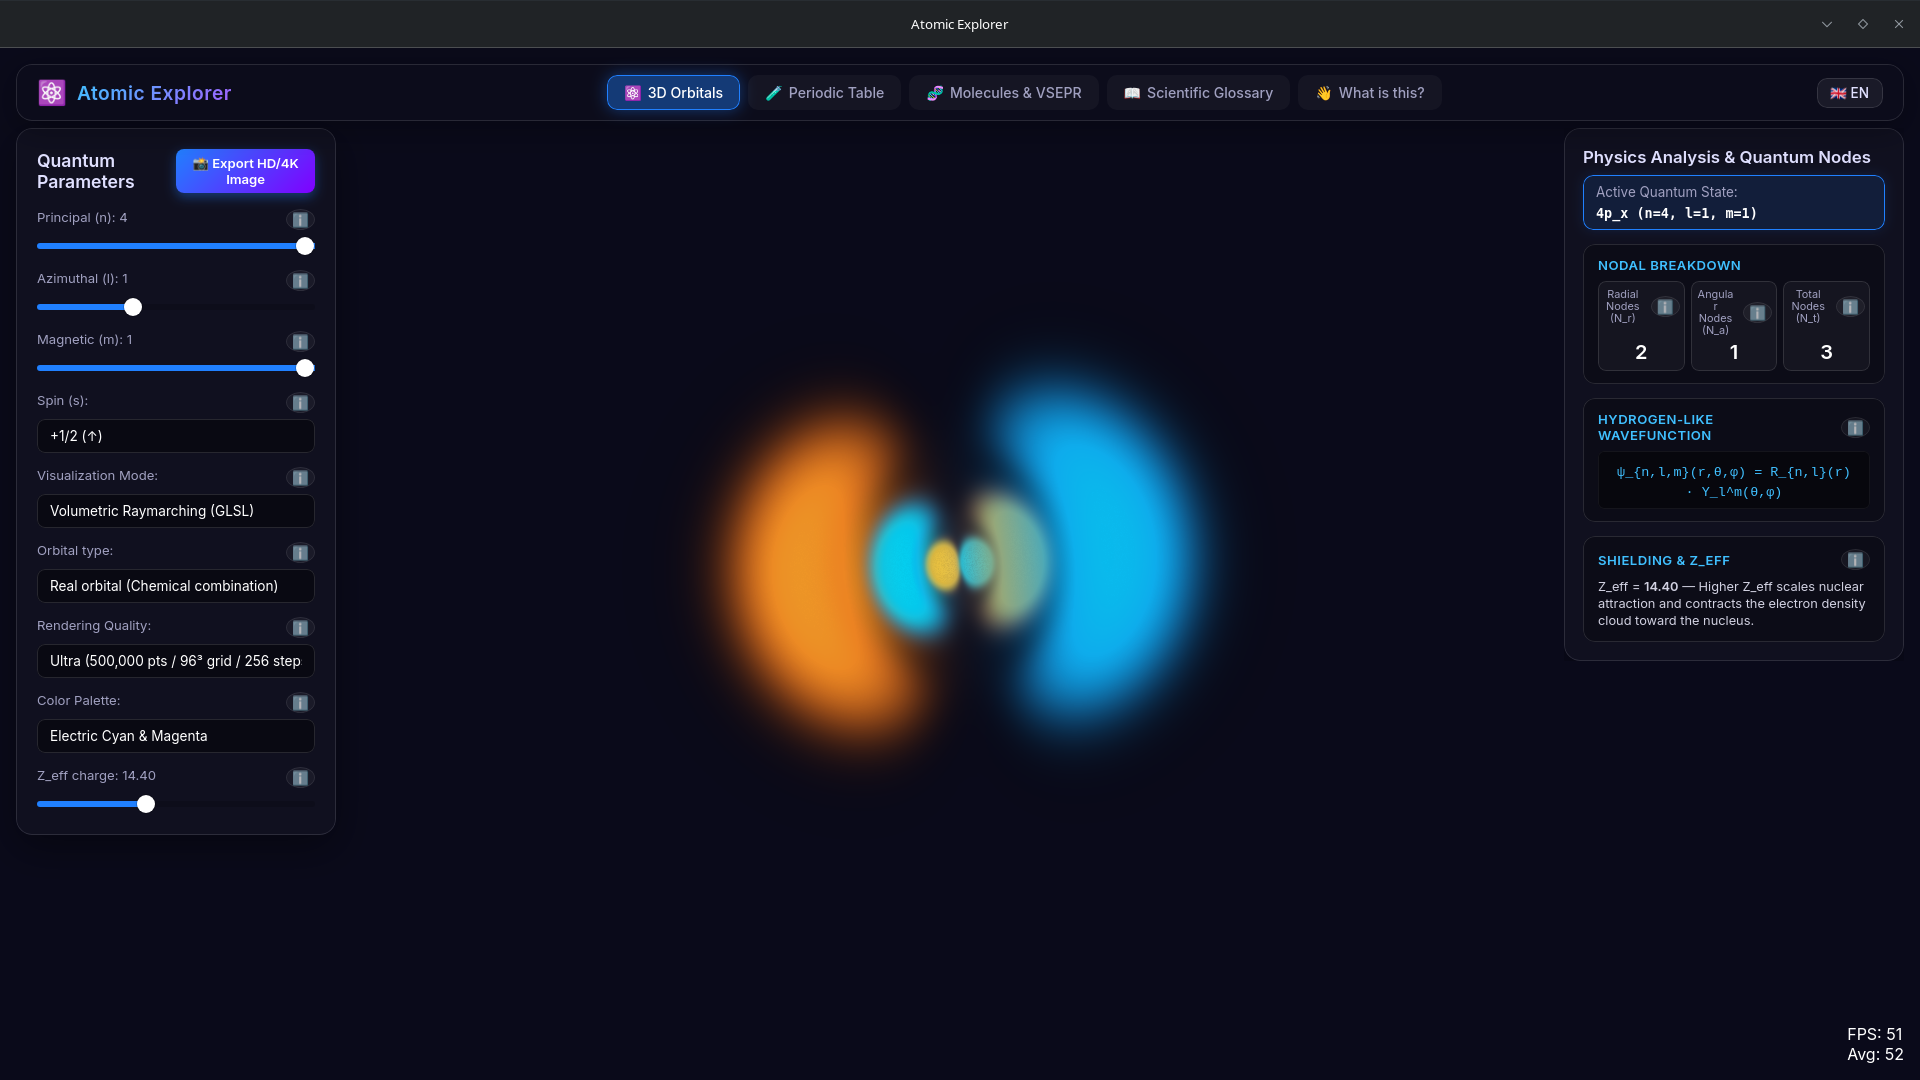
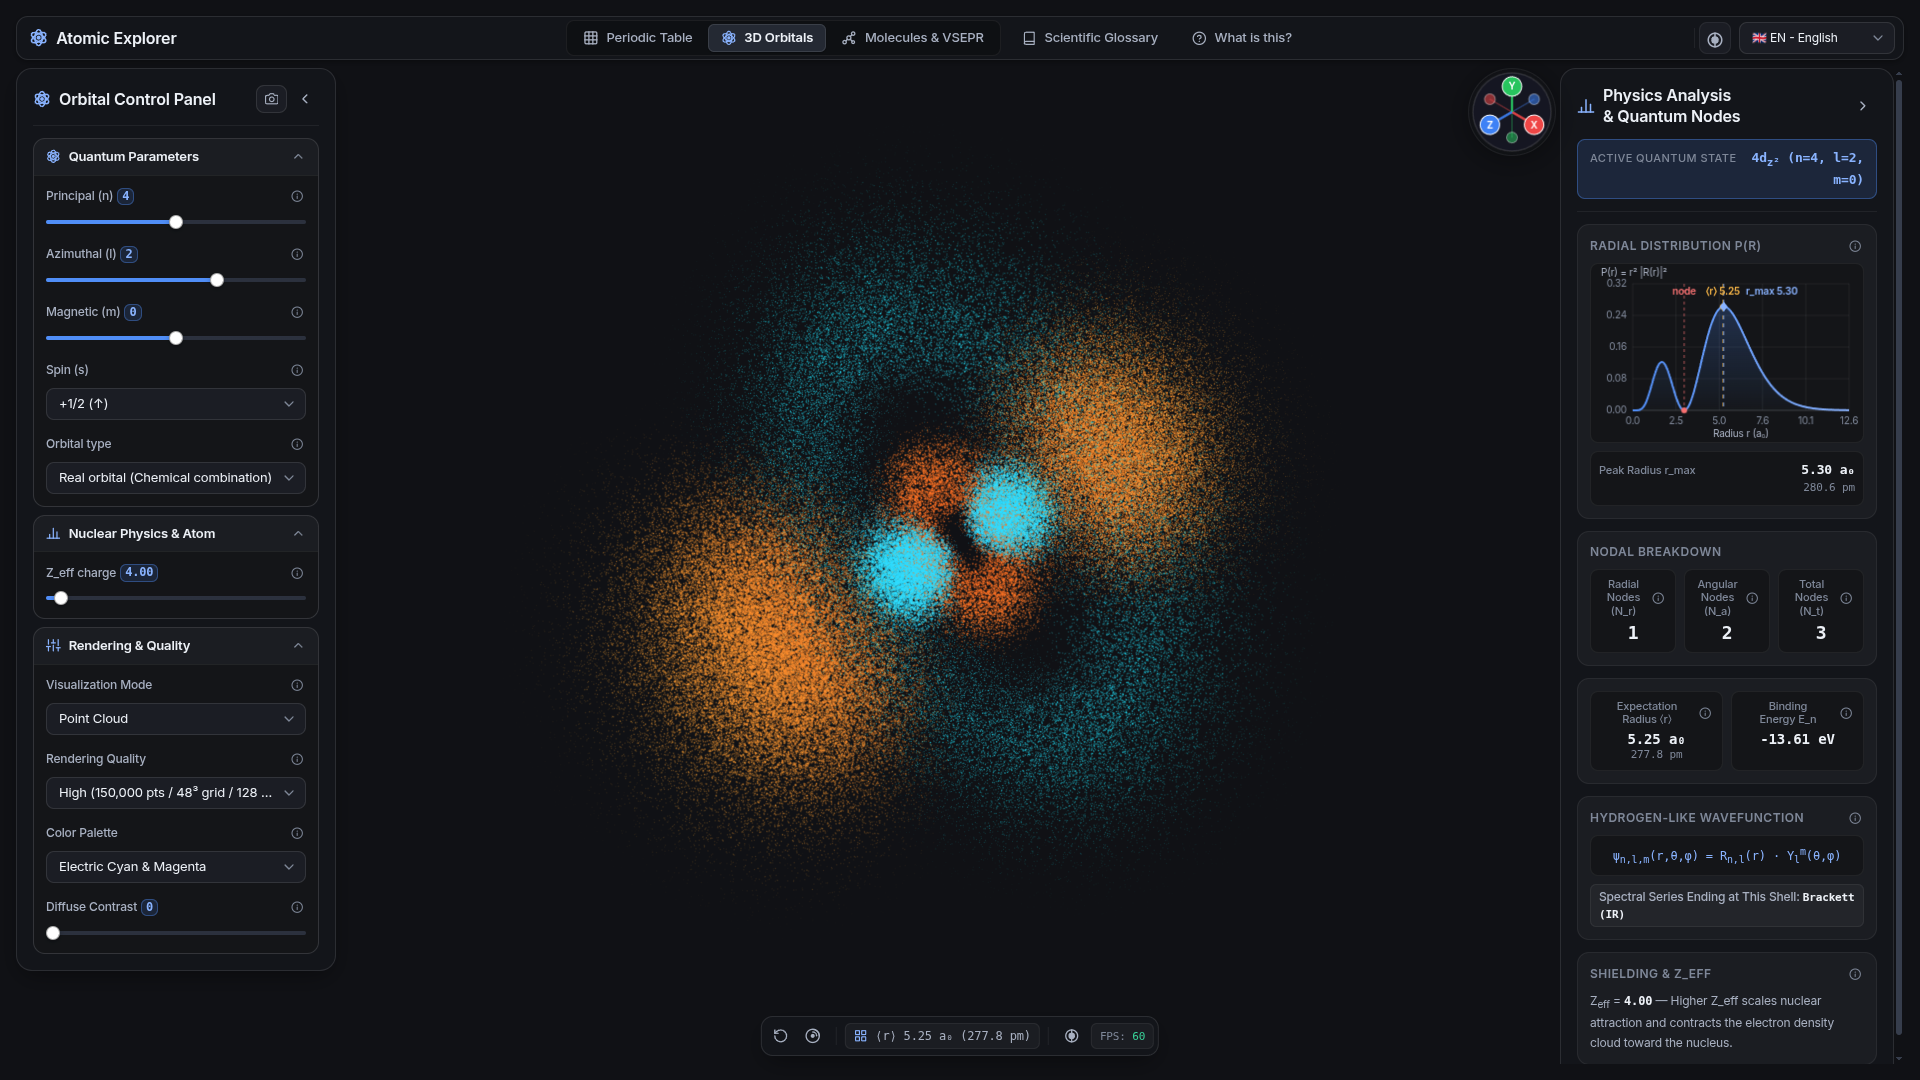
docs: refresh screenshots in English and lead the README with the periodic table
All four screenshots were still showing the previous theme, captured in a
windowed browser, so they are retaken at 1920x1080 in the current UI: the
periodic table with a live valence cloud, a 4d_z2 point cloud in the orbital
viewer with the radial distribution and nodal breakdown, methane with its sp3
hybrid lobes and bond angles, and the intro modal over the new landing page.

diff --git a/README.md b/README.md
@@ -8,21 +8,21 @@
 
 The quantum world can be abstract and difficult to imagine. Atomic Explorer solves this by offering an interactive 3D environment where you can:
 
-1. **Visualize Atomic Orbitals in 3D:** Observe the actual shape of atomic orbitals (s, p, d, f) where electrons reside. You can view probability densities and three-dimensional surfaces using advanced rendering.
-2. **Explore the Interactive Periodic Table:** Navigate through the 118 elements, filter by categories (such as alkali metals or noble gases), and discover their periodic properties, such as electronegativity or atomic radius.
+1. **Explore the Interactive Periodic Table:** This is where the app opens. Navigate through the 118 elements, filter by categories (such as alkali metals or noble gases), and discover their periodic properties, such as electronegativity or atomic radius. The element inspector previews the valence electron cloud of the selected element as a live point cloud, so you can see the shape of the orbital before opening the full 3D viewer.
+2. **Visualize Atomic Orbitals in 3D:** Observe the actual shape of atomic orbitals (s, p, d, f) where electrons reside. You can view probability densities and three-dimensional surfaces using advanced rendering.
 3. **Learn Molecular Geometry (VSEPR):** Understand how atoms bond to form molecules like water or methane, visualizing how electron pairs repel each other to form linear, tetrahedral structures, etc.
 
 ---
 
 ## Screenshots
 
-### Quantum Orbital Visualizer
-![Orbitals](./assets/screenshots/01_orbitals.png)
-*3D exploration of wave functions and atomic orbitals.*
-
 ### Complete Periodic Table
 ![Periodic Table](./assets/screenshots/02_table.png)
-*Access to all element information and configurations.*
+*The landing page: every element, its properties, and a live preview of its valence electron cloud.*
+
+### Quantum Orbital Visualizer
+![Orbitals](./assets/screenshots/01_orbitals.png)
+*3D exploration of wave functions and atomic orbitals, with the radial distribution and the nodal structure of the active state.*
 
 ### Geometry and Molecules
 ![Molecules](./assets/screenshots/03_molecules.png)
